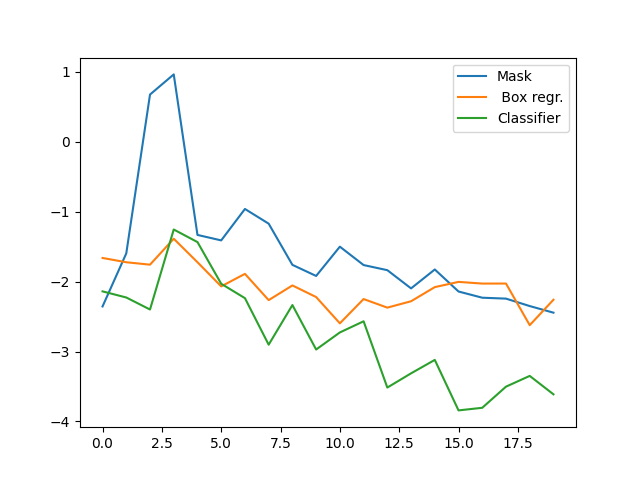
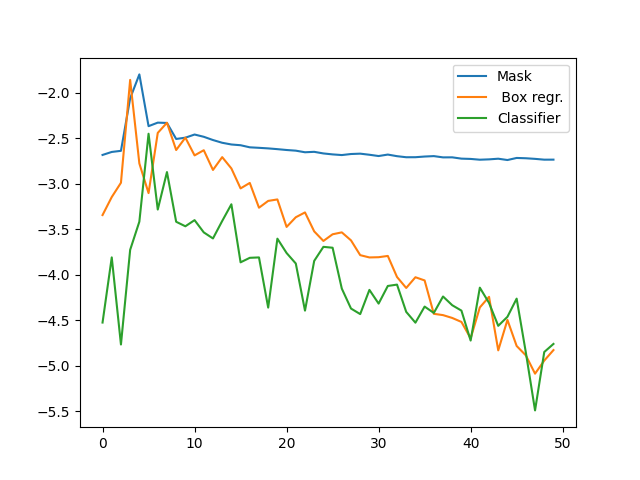
Managed to overfit 1 image

diff --git a/edarnn.py b/edarnn.py
@@ -303,8 +303,8 @@ if __name__ == "__main__":
             for batch_idx, (images, targets, _) in enumerate(tqdm(train_loader, desc="Validation")):
                 print(len(targets[0]["boxes"]), targets[0]["masks"].sum())
             #print(f"Feat_ex: {feat_ex}, out_ch: {out_ch}, lr: {lr}, weight_d: {weight_decay}, step_size: {step_size}, gamma: {gamma}, samplR: {samplR}, rpn_pre_train: {rpn_pre_train} ")
-            model, train_losses, val_losses, rcnn_losses = train_parameters(train_loader, val_loader, None, None, 20, combo[0], combo[1], combo[2], combo[3], combo[4], combo[5], samplR, rpn_pre_train, rpn_pre_test, rpn_post_train, rpn_post_test, False)
-            model, train_losses, val_losses, rcnn_losses = train_parameters(train_loader, val_loader, None, model, 20, combo[0], combo[1], combo[2], combo[3], combo[4], combo[5], samplR, rpn_pre_train, rpn_pre_test, rpn_post_train, rpn_post_test, False)
+            model, train_losses, val_losses, rcnn_losses = train_parameters(train_loader, val_loader, None, None, 50, combo[0], combo[1], combo[2], combo[3], combo[4], combo[5], samplR, rpn_pre_train, rpn_pre_test, rpn_post_train, rpn_post_test, False)
+            model, train_losses, val_losses, rcnn_losses = train_parameters(train_loader, val_loader, None, model, 50, combo[0], combo[1], combo[2], combo[3], combo[4], combo[5], samplR, rpn_pre_train, rpn_pre_test, rpn_post_train, rpn_post_test, False)
 
 
             plt.clf()

diff --git a/encode_submission.py b/encode_submission.py
@@ -86,14 +86,11 @@ def rle_decode(mask_rle: str, shape: tuple[int, int]) -> npt.NDArray:
 device = torch.device("cuda" if torch.cuda.is_available() else "cpu")
 
 # Load model and weights
-model = create_light_mask_rcnn()
+model = get_coco_initialized_model(num_classes=2)
 #state = torch.load("./images/frozen_natural_300/natural_frozen_300epochs.pth", map_location=device)  # load directly to device
-state = torch.load("./images/frozen_painted/frozen_painted_100epochs.pth", map_location=device)  # load directly to device
-
-print("Model weights: ")
-print(model.load_state_dict(state, strict=False))
-
+state = torch.load("../pretrained.pth", map_location=device)
 model.load_state_dict(state)
+
 model.to(device)  # ensure model is on same device as inputs
 model.eval()
 
